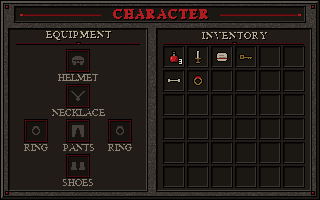
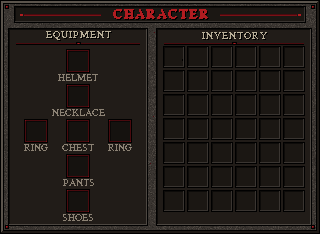
Inventory screen: the updated Character menu art with its chestplate slot
The art is now 320 x 234 with a chestplate slot between the rings and a 6 x 7 item grid. At 1.5x it fills the view's height, so the description moves to a panel to the right of the art (character name, item name, type, stats, flavour). The drawn-in chestplate slot and its label are gone; the slot cursor moves follow the new layout; the screen test follows (50 items to scroll the 7-row window).

diff --git a/tests/README.md b/tests/README.md
@@ -32,7 +32,7 @@ tests/run_all.sh            # imports first, then every test in tests/, tests/ma
 | `inventory/inventory_save.gd` | `InventorySave` (spec 1.4): the file next to the camp save, a round trip, a missing, empty or disabled file, ten kinds of corrupt file renamed to `.bad`, what loading drops (unknown ids, worn but locked, a ring in the helmet slot, an item worn twice), the `.tmp` fallback, the camp save file untouched, `GameSession.load_inventory()` (no save on load) and the autosave on a change |
 | `inventory/inventory_stats.gd` | Equipped items change stats (spec 1.4): a `Player` with `equipment` gets the adds and scales (max HP, move speed) and stacks them with camp attributes, one without gets nothing; a run's player and the hub's player wear the loadout of their own character from `GameSession.inventory` and never another's |
 | `inventory/hub_chest.gd` | The hub chest (spec 1.4): at `CHEST_POS` right of the door with the 32x32 art, clear of the door trigger, torches, camp, pedestals, training area and decor; its zone overlaps no other and the spot below the door is out of reach; the prompt `F: Inventory` in walk mode only; interact calls the (stub) screen once, after the lockout, with the character being played; closing with a change rebuilds the player in place, without one keeps it |
-| `inventory/inventory_screen.gd` | The inventory screen (spec 1.4): seven slots, the item grid, "No items yet" for an empty pool; a click wears an item (feedback sounds), a click on a worn item does nothing, a click on a slot takes it off; rings fill both slots and a third replaces `ring_1`; hover and the description line; keyboard cursor between the slots and the grid, Enter and Esc; `closed(changed)` is true only when the loadout differs; an item worn by another character is listed and moves on click; 40 items scroll the 6 x 6 window with the cursor and a click on a scrolled cell wears the item it stands for; the cells sit on the Character menu art (inside it, not overlapping, a regular grid, the chestplate slot right of the necklace, 32 px icons fit); the hub builds the real screen and the chest opens it for the character being played |
+| `inventory/inventory_screen.gd` | The inventory screen (spec 1.4): seven slots, the item grid, "No items yet" for an empty pool; a click wears an item (feedback sounds), a click on a worn item does nothing, a click on a slot takes it off; rings fill both slots and a third replaces `ring_1`; hover and the description line; keyboard cursor between the slots and the grid, Enter and Esc; `closed(changed)` is true only when the loadout differs; an item worn by another character is listed and moves on click; 40 items scroll the 6 x 7 window with the cursor and a click on a scrolled cell wears the item it stands for; the cells sit on the Character menu art (inside it, not overlapping, a regular grid, the chestplate slot below the necklace between the rings, 32 px icons fit, the description panel fits beside the art); the hub builds the real screen and the chest opens it for the character being played |
 | `inventory/item_content.gd` | The 18 items (spec 1.5): three per type, one of each rating, ids equal folders, unique names, allowed stat keys and no mana, the table of stats and `stat_text()` strings, the five legendary relics valid and distinct (the ring has none), a type's main stat rising with rating, descriptions at most 40 characters, three rating colours, and each icon being its own 32x32 cell of `assets/32x32.png` |
 | `inventory/legendary_relic.gd` | Granted relics (spec 1.5): a worn legendary gives its relic at level 1 in an extra slot (5 slots, 4 free; two legendaries 6), none in the hub or from items without a relic, raised to 3 by `add_or_raise` and by a card, never a new-relic card, the first-level-up guarantee over 30 seeds, capture and restore across stages without exceeding the saved level, the collector's pickup radius from items, the HUD slot loop and the gold ring colour |
 | `inventory/item_loot.gd` | `ItemLoot.pick` (spec 1.5): 3000 seeded picks match the 70/25/5 rating shares, owned and lying items are never picked, a fully owned rating is skipped, nothing left gives `&""`, the same seed repeats |
